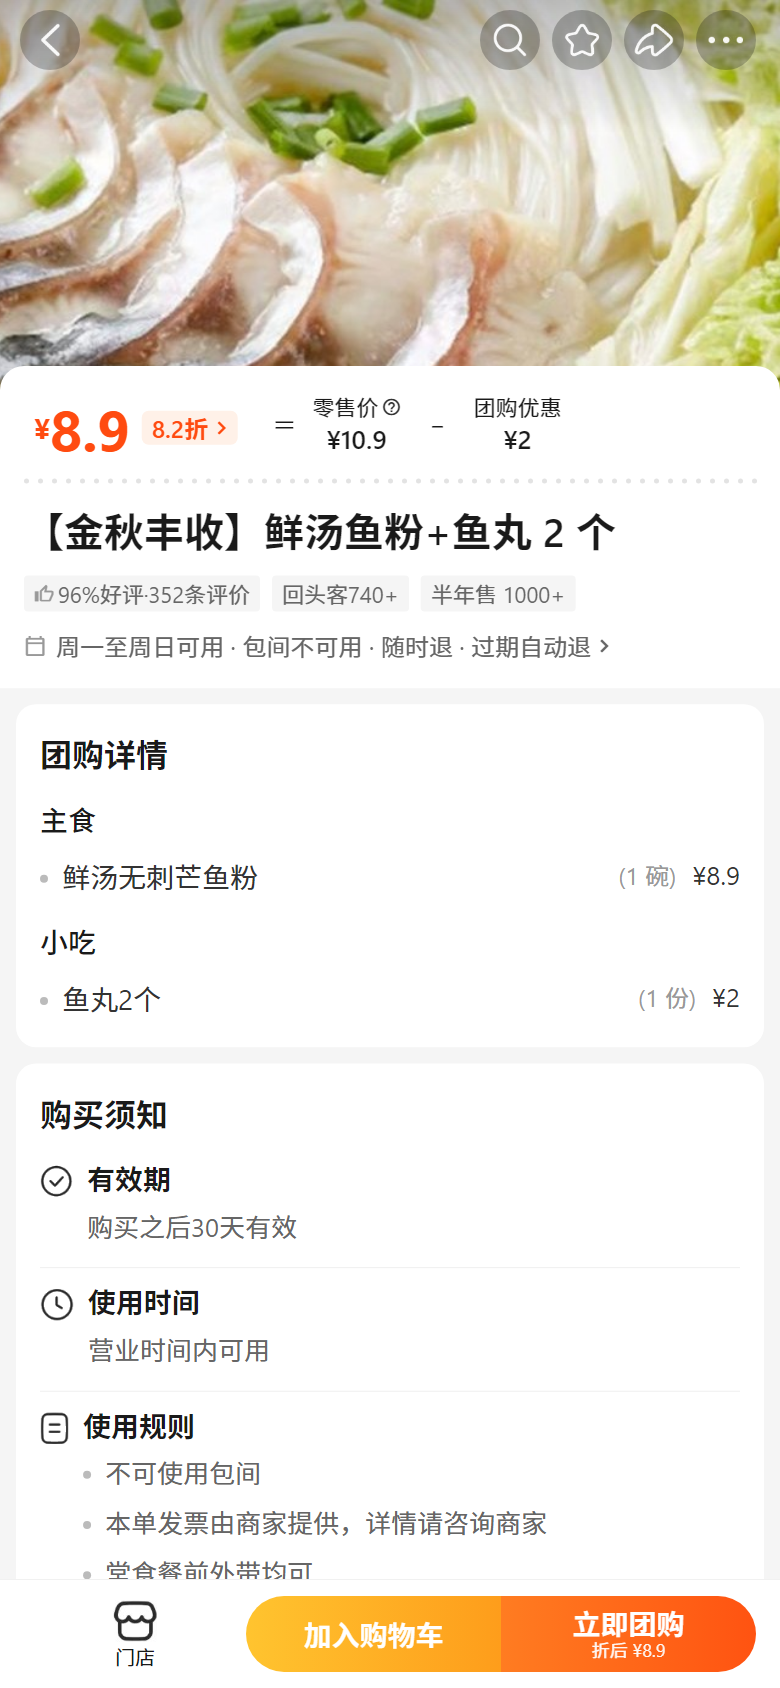
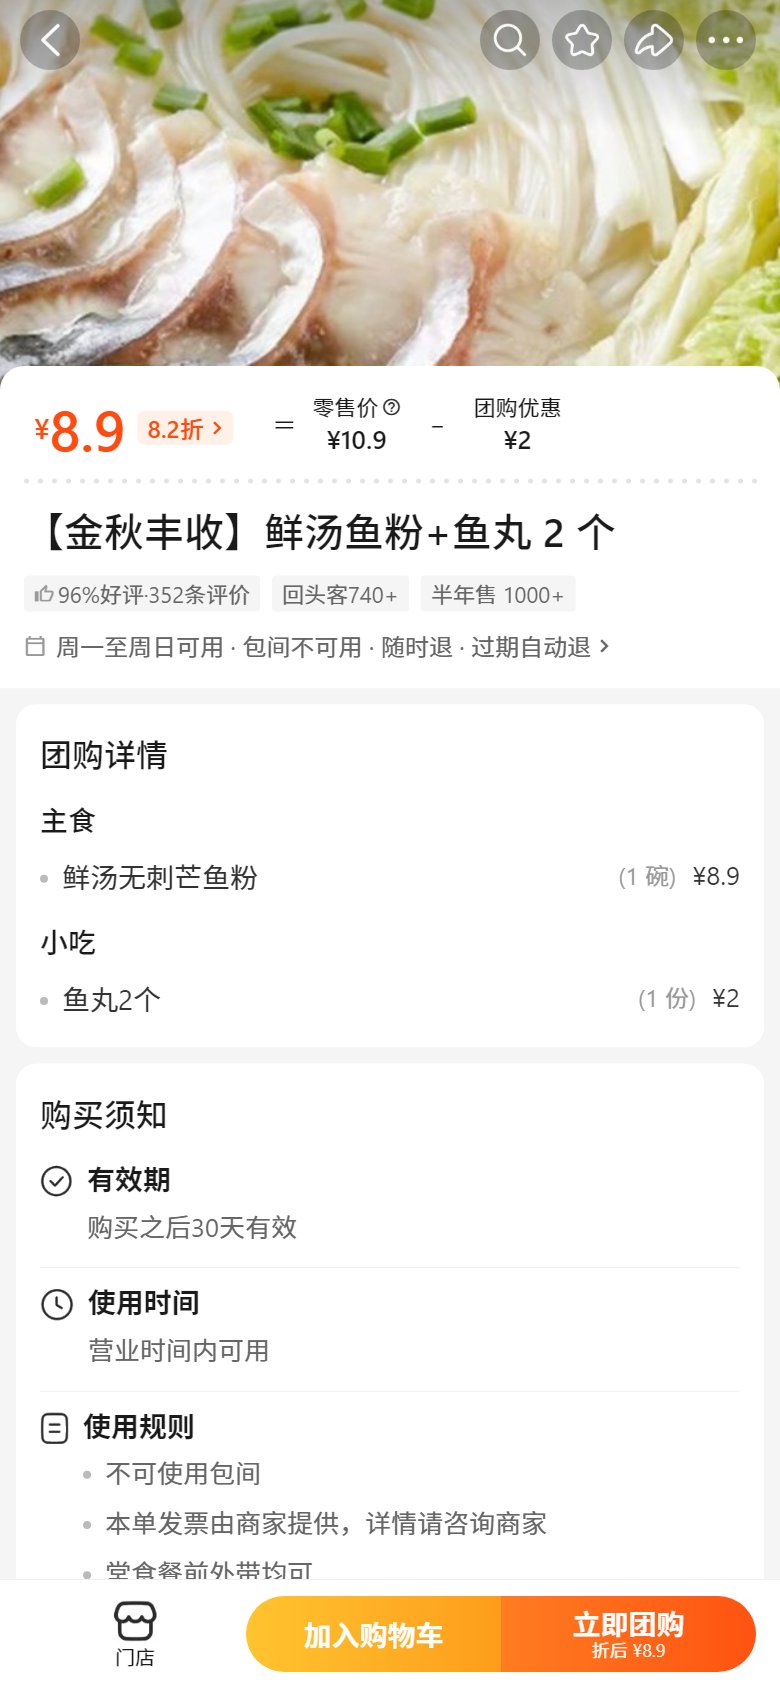
美团商品团购详情页复刻（Flutter）：数据驱动版式 + 抓包瘦身 + 粘贴数据页 + CI 打包

diff --git a/lib/widgets/deal_sections.dart b/lib/widgets/deal_sections.dart
@@ -279,7 +279,7 @@ class PriceSection extends StatelessWidget {
                           '¥',
                           style: const TextStyle(
                             fontSize: 14.5,
-                            fontWeight: FontWeight.w700,
+                            fontWeight: FontWeight.w600,
                             color: C.primary,
                             height: 1.0,
                           ),
@@ -288,7 +288,7 @@ class PriceSection extends StatelessWidget {
                           deal.price,
                           style: const TextStyle(
                             fontSize: 28,
-                            fontWeight: FontWeight.w700,
+                            fontWeight: FontWeight.w600,
                             color: C.primary,
                             height: 1.0,
                           ),
@@ -308,7 +308,7 @@ class PriceSection extends StatelessWidget {
                                   deal.discountTag,
                                   style: const TextStyle(
                                     fontSize: 12,
-                                    fontWeight: FontWeight.w600,
+                                    fontWeight: FontWeight.w500,
                                     color: C.primary,
                                     height: 1.1,
                                   ),
@@ -361,7 +361,7 @@ class PriceSection extends StatelessWidget {
             deal.title,
             style: const TextStyle(
               fontSize: 20,
-              fontWeight: FontWeight.w600,
+              fontWeight: FontWeight.w500,
               color: C.t1,
               height: 1.34,
             ),
@@ -419,7 +419,7 @@ class MenuSection extends StatelessWidget {
         children: <Widget>[
           Text(
             deal.menuTitle,
-            style: const TextStyle(fontSize: 16, fontWeight: FontWeight.w600, color: C.t1),
+            style: const TextStyle(fontSize: 16, fontWeight: FontWeight.w500, color: C.t1),
           ),
           for (final MenuGroup g in deal.menu) ...<Widget>[
             if (g.title.isNotEmpty) ...<Widget>[
@@ -511,7 +511,7 @@ class TermsSectionView extends StatelessWidget {
         children: <Widget>[
           Text(
             deal.termTitle,
-            style: const TextStyle(fontSize: 16, fontWeight: FontWeight.w600, color: C.t1),
+            style: const TextStyle(fontSize: 16, fontWeight: FontWeight.w500, color: C.t1),
           ),
           for (int ti = 0; ti < deal.terms.length; ti++) ...<Widget>[
             if (ti == 0)
@@ -604,7 +604,7 @@ class PoiSection extends StatelessWidget {
             children: <Widget>[
               const Text(
                 '适用商户',
-                style: TextStyle(fontSize: 16, fontWeight: FontWeight.w600, color: C.t1),
+                style: TextStyle(fontSize: 16, fontWeight: FontWeight.w500, color: C.t1),
               ),
               const Spacer(),
               if (poi.summary.isNotEmpty)
@@ -746,7 +746,7 @@ class RecommendSection extends StatelessWidget {
             children: <Widget>[
               Text(
                 deal.recommendTitle,
-                style: const TextStyle(fontSize: 16, fontWeight: FontWeight.w600, color: C.t1),
+                style: const TextStyle(fontSize: 16, fontWeight: FontWeight.w500, color: C.t1),
               ),
               const Spacer(),
               if (deal.recommendTotal.isNotEmpty)
